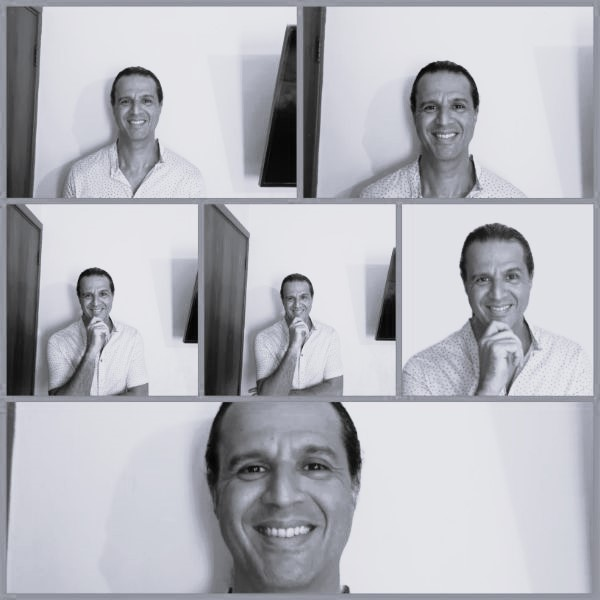
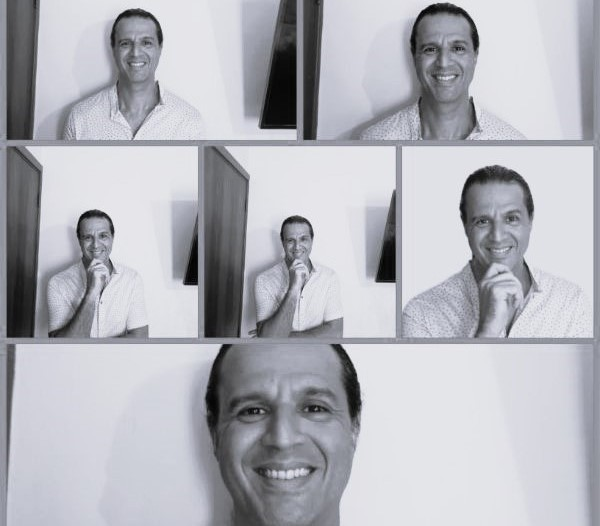
about, implemented & tested, IP:SR

diff --git a/src/components/common/image-slider/image-slider.css b/src/components/common/image-slider/image-slider.css
@@ -56,6 +56,7 @@ h1 {
   left: -10%;
   transform: rotate(270deg);
   transition: 0.7s ease;
+  text-shadow: var(--shadow-offset-ceruleo-light);
 }
 .details {
   width: -webkit-fill-available;
@@ -131,34 +132,56 @@ h1 {
   opacity: 1;
 }
 
-@media screen and (width >= 992px) {
+@media (width >= 1300px) {
   .slider-container {
     /* //TODO remove after finishing */
-    border: 5px solid red;
+    /* border: 2px solid purple; */
     /* end remove */
     .slider-img {
       width: 160px;
       &.active {
-        width: 800px;
-        height: 750px;
+        width: 760px;
+        height: auto;
+        transform: scale(1);
+      }
+      &.inactive {
+        width: 120px;
       }
     }
   }
 }
-@media screen and (width < 992px) {
+@media (width < 1300px) {
   .slider-container {
     /* //TODO remove after finishing */
-    border: 5px solid blue;
+    /* border: 1px solid red; */
+    /* end remove */
+    .slider-img {
+      width: 140px;
+      &.active {
+        width: 700px;
+        height: 650px;
+        transform: scale(1);
+      }
+      &.inactive {
+        width: 80px;
+      }
+    }
+  }
+}
+@media (width < 992px) {
+  .slider-container {
+    /* //TODO remove after finishing */
+    /* border: 3px solid blue; */
     /* end remove */
     .slider-images {
       align-items: center;
     }
     .slider-img {
       width: 150px;
-      height: 220px;
+      height: 280px;
       &.active {
         left: 5%;
-        top: 5%;
+        top: -10%;
         position: absolute;
         width: 90%;
         height: auto;
@@ -167,10 +190,47 @@ h1 {
     }
   }
 }
-@media screen and (width < 762px) {
+@media (width < 762px) {
   .slider-container {
     /* //TODO remove after finishing */
-    border: 5px solid yellow;
+    /* border: 5px solid yellow; */
     /* end remove */
+    justify-content: center;
+    align-items: center;
+
+    .slider-images {
+      flex-wrap: wrap;
+      justify-content: center;
+    }
+    .slider-img {
+      &.active {
+        top: 0%;
+        position: absolute;
+        width: 98%;
+        height: auto;
+        transform: scale(1);
+        padding-bottom: 12px;
+        background: #d4c9c9;
+        left: 5px;
+        box-shadow: none;
+      }
+    }
+    h2 {
+      font-size: 20px;
+    }
+    p {
+      font-size: 16px;
+    }
+  }
+  .details {
+    position: relative;
+    bottom: unset;
+    background-color: var(--ceruleo-medium);
+    .image-slider-icon {
+      position: absolute;
+      right: 10px;
+      top: 10px;
+      opacity: 0.6;
+    }
   }
 }

diff --git a/src/components/common/image-slider/image-slider.tsx b/src/components/common/image-slider/image-slider.tsx
@@ -2,6 +2,8 @@ import React, { useState } from "react";
 import { Icon, IconPathName } from "../icon/icon";
 import "./image-slider.css";
 
+//TODO add data to tr
+
 const ImageSlider = () => {
   const [active, setActive] = useState(0);
 
@@ -13,11 +15,17 @@ const ImageSlider = () => {
     }
   };
 
+  const getExtraClass = (n: number) => {
+    return active !== n && active !== 0 ? "inactive" : "";
+  };
+
   return (
     <section className="slider-container">
       <div className="slider-images">
         <div
-          className={`slider-img ${active === 1 ? "active" : ""}`}
+          className={`slider-img ${
+            active === 1 ? "active" : ""
+          } ${getExtraClass(1)}`}
           onClick={() => handleClick(1)}
         >
           <img src="./assets/images/carousel/about/1.jpeg" alt="1" />
@@ -36,7 +44,9 @@ const ImageSlider = () => {
           </div>
         </div>
         <div
-          className={`slider-img ${active === 2 ? "active" : ""}`}
+          className={`slider-img ${
+            active === 2 ? "active" : ""
+          } ${getExtraClass(2)}`}
           onClick={() => handleClick(2)}
         >
           <img src="./assets/images/carousel/about/2.jpeg" alt="1" />
@@ -52,7 +62,9 @@ const ImageSlider = () => {
           </div>
         </div>
         <div
-          className={`slider-img ${active === 3 ? "active" : ""}`}
+          className={`slider-img ${
+            active === 3 ? "active" : ""
+          } ${getExtraClass(3)}`}
           onClick={() => handleClick(3)}
         >
           <img src="./assets/images/carousel/about/3.jpeg" alt="1" />
@@ -67,7 +79,9 @@ const ImageSlider = () => {
           </div>
         </div>
         <div
-          className={`slider-img ${active === 4 ? "active" : ""}`}
+          className={`slider-img ${
+            active === 4 ? "active" : ""
+          } ${getExtraClass(4)}`}
           onClick={() => handleClick(4)}
         >
           <img src="./assets/images/carousel/about/4.jpg" alt="1" />

diff --git a/src/components/about/about.css b/src/components/about/about.css
@@ -19,19 +19,17 @@
 @media screen and (width >= 992px) {
   .about-page {
     /* //TODO remove after finishing */
-    border: 5px solid red;
+    /* border: 5px solid red; */
     /* end remove */
   }
 }
 @media screen and (width < 992px) {
   .about-page {
     /* //TODO remove after finishing */
-    border: 5px solid blue;
+    /* border: 5px solid blue; */
     /* end remove */
     .about {
-      margin-top: 20%;
       align-items: center;
-      justify-content: flex-start;
       width: 100%;
     }
   }
@@ -39,7 +37,7 @@
 @media screen and (width < 762px) {
   .about-page {
     /* //TODO remove after finishing */
-    border: 5px solid yellow;
+    /* border: 5px solid yellow; */
     /* end remove */
   }
 }

diff --git a/src/components/layout/navbar/navbar.css b/src/components/layout/navbar/navbar.css
@@ -127,6 +127,22 @@ nav {
         }
       }
     }
+
+    @media (width < 992px) {
+      .nav-menu-title {
+        display: none;
+      }
+      .button-my-design {
+        display: none;
+      }
+      .nav-page-title {
+        font-size: 6vw !important;
+      }
+      svg {
+        width: 30px !important;
+        height: 30px !important;
+      }
+    }
   }
 
   .menu_nav_overlay {

diff --git a/src/app.css b/src/app.css
@@ -24,6 +24,7 @@
   /* text shadows */
   --shadow-black-half: 4px 4px 4px #00000082;
   --shadow-black-minimum: 1px 1px 1px #00000041;
+  --shadow-offset-ceruleo-light: 19px 18px 3px #1fddff79;
 
   /* box shadows */
   --box-shadow-light: rgba(0, 0, 0, 0.462) 1.95px 1.95px 8px 3px;
